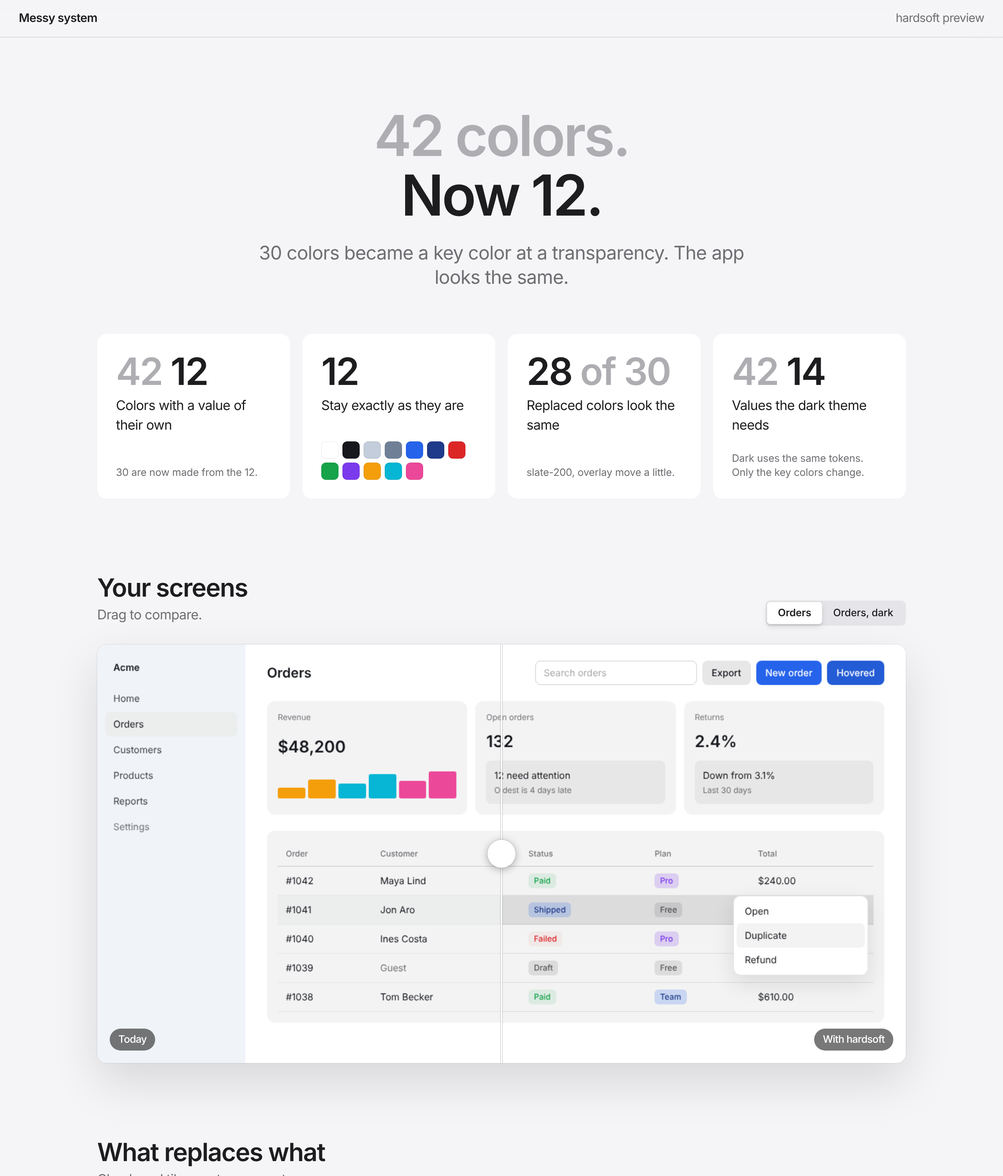
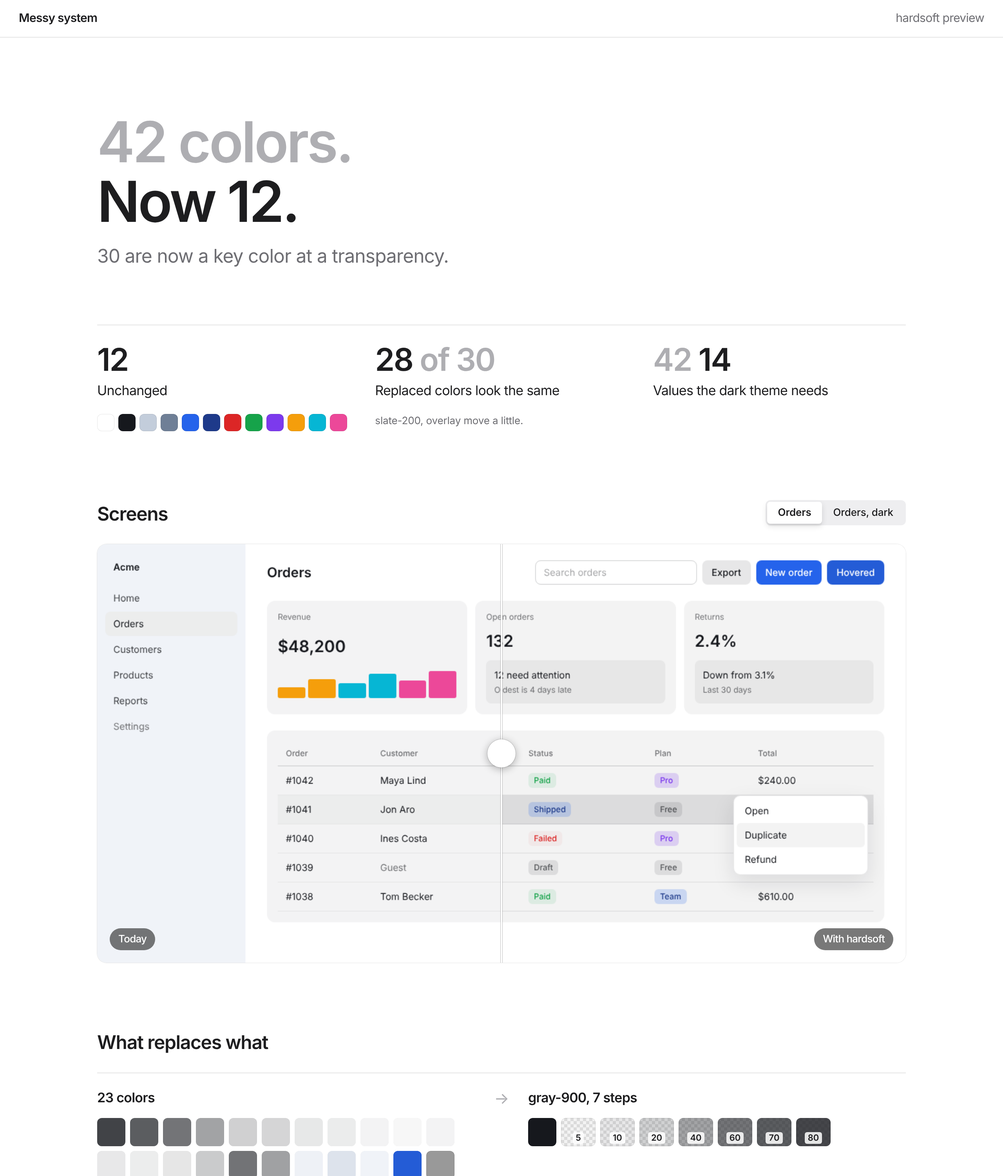
Simplify the preview page and publish it as an artifact when the agent is Claude (#4)
* Add report, apply and theme actions, 30 leveled rules, a color calculator, a fixed preview and a worked example

Claude-Session: https://claude.ai/code/session_01RAPQCzKdxfhhakqVBzd6VW

* Add token benchmarks and a closeness index, hairline strokes, solid grays for hard surfaces and screen checks with census

Claude-Session: https://claude.ai/code/session_01RAPQCzKdxfhhakqVBzd6VW

* Rewrite the README around the problem, the idea, the report numbers and what the skill never does

Claude-Session: https://claude.ai/code/session_01RAPQCzKdxfhhakqVBzd6VW

* Start the report with an interview and put the verdict, the numbers and the decisions first

Claude-Session: https://claude.ai/code/session_01RAPQCzKdxfhhakqVBzd6VW

* Offer round steps, draw each theme with its own steps, show kept colors, and put project rule clashes and side findings up front

Claude-Session: https://claude.ai/code/session_01RAPQCzKdxfhhakqVBzd6VW

* Rebuild the preview around every color of the system, today next to with hardsoft, with the real screens before and after

Claude-Session: https://claude.ai/code/session_01RAPQCzKdxfhhakqVBzd6VW

* Update the example numbers in the README

Claude-Session: https://claude.ai/code/session_01RAPQCzKdxfhhakqVBzd6VW

* Put a checkerboard at 20% under every transparent color in the preview

Claude-Session: https://claude.ai/code/session_01RAPQCzKdxfhhakqVBzd6VW

* Draw each color on a piece of its theme's ground, so a dark value reads as dark
[…]

diff --git a/examples/messy-system/preview.html b/examples/messy-system/preview.html
@@ -21,11 +21,11 @@ const system = /*hardsoft:data*/ {"name":"Messy system","scale":"given","fit":2,
 	* { box-sizing: border-box; margin: 0; }
 	:root {
 		color-scheme: light dark;
-		--bg: #f5f5f7; --card: #fff; --label: #1d1d1f; --second: #6e6e73; --third: #aeaeb2; --hair: rgb(0 0 0 / 0.1);
-		--fill: rgb(118 118 128 / 0.12); --seg: #fff; --bar: rgb(245 245 247 / 0.72); --warn: #b25000;
+		--bg: #fff; --card: transparent; --label: #1d1d1f; --second: #6e6e73; --third: #aeaeb2; --hair: rgb(0 0 0 / 0.1);
+		--fill: rgb(118 118 128 / 0.12); --seg: #fff; --bar: rgb(255 255 255 / 0.8); --warn: #b25000;
 	}
 	@media (prefers-color-scheme: dark) {
-		:root { --bg: #000; --card: #1c1c1e; --label: #f5f5f7; --second: #98989d; --third: #636366; --hair: rgb(255 255 255 / 0.14); --fill: rgb(118 118 128 / 0.24); --seg: #636366; --bar: rgb(0 0 0 / 0.72); --warn: #ff9f0a; }
+		:root { --bg: #000; --card: transparent; --label: #f5f5f7; --second: #98989d; --third: #636366; --hair: rgb(255 255 255 / 0.14); --fill: rgb(118 118 128 / 0.24); --seg: #636366; --bar: rgb(0 0 0 / 0.72); --warn: #ff9f0a; }
 	}
 	html { font: 17px/1.47 -apple-system, BlinkMacSystemFont, 'SF Pro Text', 'Helvetica Neue', system-ui, sans-serif; -webkit-font-smoothing: antialiased; letter-spacing: -0.022em; }
 	body { background: var(--bg); color: var(--label); }
@@ -38,21 +38,21 @@ const system = /*hardsoft:data*/ {"name":"Messy system","scale":"given","fit":2,
 	nav b { font-weight: 600; }
 	main { max-width: 1080px; margin: 0 auto; padding: 0 24px 120px; }
 
-	.hero { padding: 88px 0 56px; text-align: center; }
+	.hero { padding: 96px 0 72px; }
 	.hero h1 { font: 600 clamp(40px, 7vw, 72px)/1.05 -apple-system, BlinkMacSystemFont, 'SF Pro Display', 'Helvetica Neue', system-ui, sans-serif; letter-spacing: -0.035em; }
 	.hero h1 s { text-decoration: none; color: var(--third); }
-	.hero p { font-size: clamp(19px, 2.4vw, 24px); line-height: 1.3; color: var(--second); max-width: 620px; margin: 20px auto 0; letter-spacing: -0.02em; }
+	.hero p { font-size: clamp(19px, 2.4vw, 24px); line-height: 1.3; color: var(--second); max-width: 620px; margin: 16px 0 0; letter-spacing: -0.02em; }
 
-	.stats { display: grid; grid-template-columns: repeat(auto-fit, minmax(220px, 1fr)); gap: 16px; }
-	.stat { background: var(--card); border-radius: 12px; padding: 24px; display: grid; gap: 20px; align-content: space-between; min-height: 200px; }
-	.stat .big { font: 600 48px/1 -apple-system, BlinkMacSystemFont, 'SF Pro Display', system-ui, sans-serif; letter-spacing: -0.03em; margin-bottom: 8px; }
+	.stats { display: grid; grid-template-columns: repeat(auto-fit, minmax(220px, 1fr)); gap: 32px; padding-top: 24px; border-top: 0.5px solid var(--hair); }
+	.stat { display: grid; gap: 16px; align-content: start; }
+	.stat .big { font: 600 40px/1 -apple-system, BlinkMacSystemFont, 'SF Pro Display', system-ui, sans-serif; letter-spacing: -0.03em; margin-bottom: 8px; }
 	.stat .big s { text-decoration: none; color: var(--third); }
 	.dots { display: flex; flex-wrap: wrap; gap: 5px; }
 	.dot { width: 22px; height: 22px; border-radius: 6px; box-shadow: inset 0 0 0 0.5px var(--hair); }
 
-	section { margin-top: 96px; }
+	section { margin-top: 88px; }
 	.title { display: flex; flex-wrap: wrap; justify-content: space-between; align-items: end; gap: 16px; margin-bottom: 24px; }
-	h2 { font: 600 32px/1.12 -apple-system, BlinkMacSystemFont, 'SF Pro Display', system-ui, sans-serif; letter-spacing: -0.028em; }
+	h2 { font: 600 24px/1.2 -apple-system, BlinkMacSystemFont, 'SF Pro Display', system-ui, sans-serif; letter-spacing: -0.028em; }
 	.title p { color: var(--second); margin-top: 6px; }
 	h3 { font-size: 17px; font-weight: 600; }
 	.card { background: var(--card); border-radius: 12px; }
@@ -63,7 +63,7 @@ const system = /*hardsoft:data*/ {"name":"Messy system","scale":"given","fit":2,
 	.seg button[aria-pressed='true'] { background: var(--seg); box-shadow: 0 3px 8px rgb(0 0 0 / 0.12), 0 3px 1px rgb(0 0 0 / 0.04); font-weight: 600; }
 
 	/* The screen, before and after */
-	.compare { position: relative; border-radius: 12px; overflow: hidden; line-height: 0; user-select: none; box-shadow: 0 0 0 0.5px var(--hair), 0 24px 60px rgb(0 0 0 / 0.12); }
+	.compare { position: relative; border-radius: 12px; overflow: hidden; line-height: 0; user-select: none; box-shadow: 0 0 0 0.5px var(--hair); }
 	.compare img { display: block; width: 100%; }
 	.compare .old { position: absolute; inset: 0; overflow: hidden; width: var(--at, 50%); }
 	.compare .old img { width: auto; height: 100%; max-width: none; }
@@ -75,8 +75,7 @@ const system = /*hardsoft:data*/ {"name":"Messy system","scale":"given","fit":2,
 	.compare .tag.now { right: 16px; }
 
 	/* What replaces what */
-	.swap { display: grid; grid-template-columns: minmax(0, 1fr) 28px minmax(0, 1fr); gap: 20px; align-items: start; padding: 24px; }
-	.swap + .swap { border-top: 0.5px solid var(--hair); }
+	.swap { display: grid; grid-template-columns: minmax(0, 1fr) 28px minmax(0, 1fr); gap: 20px; align-items: start; padding: 20px 0; border-top: 0.5px solid var(--hair); }
 	.swap .arrow { color: var(--third); text-align: center; font-size: 20px; line-height: 24px; }
 	.chips { display: flex; flex-wrap: wrap; gap: 6px; margin-top: 12px; }
 	.chip { width: 36px; height: 36px; border-radius: 6px; box-shadow: inset 0 0 0 0.5px rgb(0 0 0 / 0.12); position: relative; overflow: hidden; }
@@ -87,18 +86,17 @@ const system = /*hardsoft:data*/ {"name":"Messy system","scale":"given","fit":2,
 	.checker { background-image: conic-gradient(rgb(128 128 128 / 0.2) 25%, transparent 0 50%, rgb(128 128 128 / 0.2) 0 75%, transparent 0); background-size: 8px 8px; }
 
 	/* Every color: grouped lists */
-	.group { margin-top: 32px; }
-	.group > header { display: flex; align-items: baseline; gap: 10px; padding: 0 24px 8px; }
+	.group { margin-top: 28px; }
+	.group > header { display: flex; align-items: baseline; gap: 10px; padding: 0 0 8px; border-bottom: 0.5px solid var(--hair); margin-bottom: 4px; }
 	.group > header span { color: var(--second); }
-	.cols { display: grid; grid-template-columns: 200px minmax(0, 1fr) minmax(0, 1fr) 240px; gap: 16px; padding: 0 24px 8px; color: var(--second); }
-	.row { display: grid; grid-template-columns: 200px minmax(0, 1fr) minmax(0, 1fr) 240px; gap: 16px; align-items: center; padding: 10px 24px; position: relative; }
+	.cols { display: grid; grid-template-columns: 200px minmax(0, 1fr) minmax(0, 1fr) 240px; gap: 16px; padding: 0 0 4px; color: var(--second); }
+	.row { display: grid; grid-template-columns: 200px minmax(0, 1fr) minmax(0, 1fr) 240px; gap: 16px; align-items: center; padding: 4px 0; }
 	.one .cols, .one .row { grid-template-columns: 200px minmax(0, 1fr) 240px; }
-	.row + .row::before { content: ''; position: absolute; top: 0; left: 24px; right: 0; border-top: 0.5px solid var(--hair); }
-	.name { overflow-wrap: anywhere; font-weight: 500; }
+	.name { overflow-wrap: anywhere; display: flex; gap: 8px; align-items: baseline; flex-wrap: wrap; }
 	.name div + div { font-weight: 400; font-family: ui-monospace, 'SF Mono', Menlo, monospace; font-size: 12px; letter-spacing: 0; }
 	/* A bar is a piece of the theme's ground with the color on it, so dark reads as dark */
-	.bar { padding: 6px; border-radius: 8px; box-shadow: inset 0 0 0 0.5px var(--hair); }
-	.tile { display: grid; grid-template-columns: 1fr 1fr; height: 32px; border-radius: 4px; overflow: hidden; }
+	.bar { padding: 4px; border-radius: 6px; box-shadow: inset 0 0 0 0.5px var(--hair); }
+	.tile { display: grid; grid-template-columns: 1fr 1fr; height: 24px; border-radius: 3px; overflow: hidden; }
 	.tile > div { position: relative; }
 	.now { display: flex; align-items: center; gap: 8px; min-width: 0; }
 	.mark { flex: none; width: 18px; height: 18px; border-radius: 3px; position: relative; overflow: hidden; box-shadow: inset 0 0 0 0.5px rgb(0 0 0 / 0.15); }
@@ -137,7 +135,7 @@ const themes = ['light', ...(system.dark ? ['dark'] : [])];
 const soft = tokens.filter((t) => t.kind === 'soft');
 const solid = tokens.filter((t) => t.kind !== 'soft');
 const moved = soft.filter((t) => t.shift > system.fit);
-const WORDS = { master: 'Key color, unchanged', kept: 'Unchanged', hard: 'Unchanged, solid on a hard surface', untouched: 'Unchanged' };
+const WORDS = { master: 'Key color', kept: 'Unchanged', hard: 'Unchanged', untouched: 'Unchanged' };
 
 // A segmented control: pick one of a few.
 function segmented(options, onPick) {
@@ -178,19 +176,18 @@ const page = document.getElementById('page');
 // 1. The claim, then the proofs: fewer values, the key colors stay, it looks the same.
 page.append(el('header', { className: 'hero' }, [
 	el('h1', { className: 'num' }, [el('s', { textContent: `${tokens.length} colors.` }), el('br'), `Now ${solid.length}.`]),
-	el('p', { textContent: `${plural(soft.length, 'color')} became a key color at a transparency. The app looks the same.` }),
+	el('p', { textContent: `${soft.length} are now a key color at a transparency.` }),
 ]));
 const stat = (big, label, extra) => el('div', { className: 'stat' }, [el('div', {}, [el('div', { className: 'big num' }, big), el('div', { textContent: label })]), extra]);
 const dots = (list) => el('div', { className: 'dots' }, list.map((t) => { const d = el('div', { className: 'dot', title: t.name }); d.style.background = t.value; return d; }));
 const stats = el('div', { className: 'stats' }, [
-	stat([el('s', { textContent: `${tokens.length} ` }), `${solid.length}`], 'Colors with a value of their own', el('div', { className: 'second foot', textContent: `${soft.length} are now made from the ${solid.length}.` })),
-	stat([`${solid.length}`], 'Stay exactly as they are', dots(solid)),
-	stat([`${soft.length - moved.length}`, el('s', { textContent: ` of ${soft.length}` })], 'Replaced colors look the same', el('div', { className: 'second foot', textContent: moved.length ? `${moved.map((t) => t.name).join(', ')} ${moved.length === 1 ? 'moves' : 'move'} a little.` : 'None of them moves.' })),
+	stat([`${solid.length}`], 'Unchanged', dots(solid)),
+	stat([`${soft.length - moved.length}`, el('s', { textContent: ` of ${soft.length}` })], 'Replaced colors look the same', moved.length ? el('div', { className: 'second foot', textContent: `${moved.map((t) => t.name).join(', ')} ${moved.length === 1 ? 'moves' : 'move'} a little.` }) : null),
 ]);
 if (system.dark) {
 	const had = tokens.filter((t) => t.dark);
 	const need = had.filter((t) => t.kind !== 'soft' || t.dark.shift > system.fit + 1);
-	stats.append(stat([el('s', { textContent: `${had.length} ` }), `${need.length}`], 'Values the dark theme needs', el('div', { className: 'second foot', textContent: 'Dark uses the same tokens. Only the key colors change.' })));
+	stats.append(stat([el('s', { textContent: `${had.length} ` }), `${need.length}`], 'Values the dark theme needs', null));
 }
 page.append(stats);
 
@@ -205,7 +202,7 @@ if (system.screens.length) {
 	};
 	show(system.screens[0]);
 	page.append(el('section', {}, [
-		el('div', { className: 'title' }, [el('div', {}, [el('h2', { textContent: 'Your screens' }), el('p', { textContent: 'Drag to compare.' })]), system.screens.length > 1 ? segmented(system.screens.map((s) => [s, s.name]), show) : null]),
+		el('div', { className: 'title' }, [el('h2', { textContent: 'Screens' }), system.screens.length > 1 ? segmented(system.screens.map((s) => [s, s.name]), show) : null]),
 		view,
 	]));
 }
@@ -225,16 +222,16 @@ if (used.length) {
 		card.append(el('div', { className: 'swap' }, [
 			el('div', {}, [el('h3', { textContent: plural(mine.length, 'color') }), olds]),
 			el('div', { className: 'arrow', textContent: '→' }),
-			el('div', {}, [el('h3', { textContent: `${name} at ${plural(steps.length, 'step')}` }), news]),
+			el('div', {}, [el('h3', { textContent: `${name}, ${plural(steps.length, 'step')}` }), news]),
 		]));
 	}
-	page.append(el('section', {}, [el('div', { className: 'title' }, [el('div', {}, [el('h2', { textContent: 'What replaces what' }), el('p', { textContent: 'Checkered tiles are transparent.' })])]), card]));
+	page.append(el('section', {}, [el('div', { className: 'title' }, [el('h2', { textContent: 'What replaces what' })]), card]));
 }
 
 // 4. Every color of the system, grouped the way the system groups them.
 const groups = [...new Set(tokens.map((t) => t.group))];
 const list = el('div', { className: themes.length === 1 ? 'one' : '' });
-list.append(el('div', { className: 'cols foot' }, [el('span'), ...themes.map((th) => el('span', { textContent: themes.length > 1 ? `On the ${th} ground: today, with hardsoft` : 'Today, with hardsoft' })), el('span')]));
+list.append(el('div', { className: 'cols foot' }, [el('span'), ...themes.map((th) => el('span', { textContent: themes.length > 1 ? `${th[0].toUpperCase()}${th.slice(1)}: today | new` : 'Today | new' })), el('span')]));
 for (const g of groups) {
 	const mine = tokens.filter((t) => t.group === g);
 	const left = mine.filter((t) => t.kind !== 'soft').length;
@@ -242,19 +239,19 @@ for (const g of groups) {
 		const now = el('div', { className: 'now foot' });
 		if (t.kind === 'soft') {
 			const far = t.shift > system.fit || (t.dark?.shift ?? 0) > system.fit;
-			now.append(paint(el('span', { className: 'mark checker' }), '#fff', layer(t.masterValue, t.step)), el('span', {}, [`${t.master} at ${t.step}%`, far ? el('span', { className: 'moved', textContent: ' · moves a little' }) : null]));
-		} else now.append(el('span', { className: 'second', textContent: t.why ? `${WORDS[t.kind]}: ${t.why}` : WORDS[t.kind] }));
+			now.append(el('span', {}, [`${t.master} ${t.step}%`, far ? el('span', { className: 'moved', textContent: ' · moves a little' }) : null]));
+		} else now.append(el('span', { className: 'second', textContent: WORDS[t.kind] }));
 		const row = el('div', { className: 'row' }, [el('div', { className: 'name foot' }, [el('div', { textContent: t.name }), el('div', { className: 'second', textContent: t.value })]), ...themes.map((th) => bar(t, th)), now]);
 		row.dataset.kind = t.kind === 'soft' ? 'soft' : 'solid';
 		return row;
 	}));
 	list.append(el('div', { className: 'group' }, [el('header', {}, [el('h3', { textContent: g }), el('span', { className: 'foot num', textContent: left === mine.length ? `${mine.length}, unchanged` : `${mine.length} → ${left}` })]), rows]));
 }
-const filters = segmented([['all', `All ${tokens.length}`], ['soft', `Now transparent ${soft.length}`], ['solid', `Unchanged ${solid.length}`]], (kind) => {
+const filters = segmented([['all', `All ${tokens.length}`], ['soft', `Transparent ${soft.length}`], ['solid', `Unchanged ${solid.length}`]], (kind) => {
 	list.querySelectorAll('.row').forEach((r) => (r.hidden = kind !== 'all' && r.dataset.kind !== kind));
 	list.querySelectorAll('.group').forEach((gr) => (gr.hidden = !gr.querySelector('.row:not([hidden])')));
 });
-page.append(el('section', {}, [el('div', { className: 'title' }, [el('div', {}, [el('h2', { textContent: 'Every color' }), el('p', { textContent: 'Left half today, right half with hardsoft.' })]), filters]), list]));
+page.append(el('section', {}, [el('div', { className: 'title' }, [el('h2', { textContent: 'Every color' }), filters]), list]));
 
 document.title = `${system.name}: hardsoft preview`;
 </script>

diff --git a/skills/hardsoft/templates/preview.html b/skills/hardsoft/templates/preview.html
@@ -21,11 +21,11 @@ const system = /*hardsoft:data*/ {"name":"Example","scale":"fewer","fit":2,"step
 	* { box-sizing: border-box; margin: 0; }
 	:root {
 		color-scheme: light dark;
-		--bg: #f5f5f7; --card: #fff; --label: #1d1d1f; --second: #6e6e73; --third: #aeaeb2; --hair: rgb(0 0 0 / 0.1);
-		--fill: rgb(118 118 128 / 0.12); --seg: #fff; --bar: rgb(245 245 247 / 0.72); --warn: #b25000;
+		--bg: #fff; --card: transparent; --label: #1d1d1f; --second: #6e6e73; --third: #aeaeb2; --hair: rgb(0 0 0 / 0.1);
+		--fill: rgb(118 118 128 / 0.12); --seg: #fff; --bar: rgb(255 255 255 / 0.8); --warn: #b25000;
 	}
 	@media (prefers-color-scheme: dark) {
-		:root { --bg: #000; --card: #1c1c1e; --label: #f5f5f7; --second: #98989d; --third: #636366; --hair: rgb(255 255 255 / 0.14); --fill: rgb(118 118 128 / 0.24); --seg: #636366; --bar: rgb(0 0 0 / 0.72); --warn: #ff9f0a; }
+		:root { --bg: #000; --card: transparent; --label: #f5f5f7; --second: #98989d; --third: #636366; --hair: rgb(255 255 255 / 0.14); --fill: rgb(118 118 128 / 0.24); --seg: #636366; --bar: rgb(0 0 0 / 0.72); --warn: #ff9f0a; }
 	}
 	html { font: 17px/1.47 -apple-system, BlinkMacSystemFont, 'SF Pro Text', 'Helvetica Neue', system-ui, sans-serif; -webkit-font-smoothing: antialiased; letter-spacing: -0.022em; }
 	body { background: var(--bg); color: var(--label); }
@@ -38,21 +38,21 @@ const system = /*hardsoft:data*/ {"name":"Example","scale":"fewer","fit":2,"step
 	nav b { font-weight: 600; }
 	main { max-width: 1080px; margin: 0 auto; padding: 0 24px 120px; }
 
-	.hero { padding: 88px 0 56px; text-align: center; }
+	.hero { padding: 96px 0 72px; }
 	.hero h1 { font: 600 clamp(40px, 7vw, 72px)/1.05 -apple-system, BlinkMacSystemFont, 'SF Pro Display', 'Helvetica Neue', system-ui, sans-serif; letter-spacing: -0.035em; }
 	.hero h1 s { text-decoration: none; color: var(--third); }
-	.hero p { font-size: clamp(19px, 2.4vw, 24px); line-height: 1.3; color: var(--second); max-width: 620px; margin: 20px auto 0; letter-spacing: -0.02em; }
+	.hero p { font-size: clamp(19px, 2.4vw, 24px); line-height: 1.3; color: var(--second); max-width: 620px; margin: 16px 0 0; letter-spacing: -0.02em; }
 
-	.stats { display: grid; grid-template-columns: repeat(auto-fit, minmax(220px, 1fr)); gap: 16px; }
-	.stat { background: var(--card); border-radius: 12px; padding: 24px; display: grid; gap: 20px; align-content: space-between; min-height: 200px; }
-	.stat .big { font: 600 48px/1 -apple-system, BlinkMacSystemFont, 'SF Pro Display', system-ui, sans-serif; letter-spacing: -0.03em; margin-bottom: 8px; }
+	.stats { display: grid; grid-template-columns: repeat(auto-fit, minmax(220px, 1fr)); gap: 32px; padding-top: 24px; border-top: 0.5px solid var(--hair); }
+	.stat { display: grid; gap: 16px; align-content: start; }
+	.stat .big { font: 600 40px/1 -apple-system, BlinkMacSystemFont, 'SF Pro Display', system-ui, sans-serif; letter-spacing: -0.03em; margin-bottom: 8px; }
 	.stat .big s { text-decoration: none; color: var(--third); }
 	.dots { display: flex; flex-wrap: wrap; gap: 5px; }
 	.dot { width: 22px; height: 22px; border-radius: 6px; box-shadow: inset 0 0 0 0.5px var(--hair); }
 
-	section { margin-top: 96px; }
+	section { margin-top: 88px; }
 	.title { display: flex; flex-wrap: wrap; justify-content: space-between; align-items: end; gap: 16px; margin-bottom: 24px; }
-	h2 { font: 600 32px/1.12 -apple-system, BlinkMacSystemFont, 'SF Pro Display', system-ui, sans-serif; letter-spacing: -0.028em; }
+	h2 { font: 600 24px/1.2 -apple-system, BlinkMacSystemFont, 'SF Pro Display', system-ui, sans-serif; letter-spacing: -0.028em; }
 	.title p { color: var(--second); margin-top: 6px; }
 	h3 { font-size: 17px; font-weight: 600; }
 	.card { background: var(--card); border-radius: 12px; }
@@ -63,7 +63,7 @@ const system = /*hardsoft:data*/ {"name":"Example","scale":"fewer","fit":2,"step
 	.seg button[aria-pressed='true'] { background: var(--seg); box-shadow: 0 3px 8px rgb(0 0 0 / 0.12), 0 3px 1px rgb(0 0 0 / 0.04); font-weight: 600; }
 
 	/* The screen, before and after */
-	.compare { position: relative; border-radius: 12px; overflow: hidden; line-height: 0; user-select: none; box-shadow: 0 0 0 0.5px var(--hair), 0 24px 60px rgb(0 0 0 / 0.12); }
+	.compare { position: relative; border-radius: 12px; overflow: hidden; line-height: 0; user-select: none; box-shadow: 0 0 0 0.5px var(--hair); }
 	.compare img { display: block; width: 100%; }
 	.compare .old { position: absolute; inset: 0; overflow: hidden; width: var(--at, 50%); }
 	.compare .old img { width: auto; height: 100%; max-width: none; }
@@ -75,8 +75,7 @@ const system = /*hardsoft:data*/ {"name":"Example","scale":"fewer","fit":2,"step
 	.compare .tag.now { right: 16px; }
 
 	/* What replaces what */
-	.swap { display: grid; grid-template-columns: minmax(0, 1fr) 28px minmax(0, 1fr); gap: 20px; align-items: start; padding: 24px; }
-	.swap + .swap { border-top: 0.5px solid var(--hair); }
+	.swap { display: grid; grid-template-columns: minmax(0, 1fr) 28px minmax(0, 1fr); gap: 20px; align-items: start; padding: 20px 0; border-top: 0.5px solid var(--hair); }
 	.swap .arrow { color: var(--third); text-align: center; font-size: 20px; line-height: 24px; }
 	.chips { display: flex; flex-wrap: wrap; gap: 6px; margin-top: 12px; }
 	.chip { width: 36px; height: 36px; border-radius: 6px; box-shadow: inset 0 0 0 0.5px rgb(0 0 0 / 0.12); position: relative; overflow: hidden; }
@@ -87,18 +86,17 @@ const system = /*hardsoft:data*/ {"name":"Example","scale":"fewer","fit":2,"step
 	.checker { background-image: conic-gradient(rgb(128 128 128 / 0.2) 25%, transparent 0 50%, rgb(128 128 128 / 0.2) 0 75%, transparent 0); background-size: 8px 8px; }
 
 	/* Every color: grouped lists */
-	.group { margin-top: 32px; }
-	.group > header { display: flex; align-items: baseline; gap: 10px; padding: 0 24px 8px; }
+	.group { margin-top: 28px; }
+	.group > header { display: flex; align-items: baseline; gap: 10px; padding: 0 0 8px; border-bottom: 0.5px solid var(--hair); margin-bottom: 4px; }
 	.group > header span { color: var(--second); }
-	.cols { display: grid; grid-template-columns: 200px minmax(0, 1fr) minmax(0, 1fr) 240px; gap: 16px; padding: 0 24px 8px; color: var(--second); }
-	.row { display: grid; grid-template-columns: 200px minmax(0, 1fr) minmax(0, 1fr) 240px; gap: 16px; align-items: center; padding: 10px 24px; position: relative; }
+	.cols { display: grid; grid-template-columns: 200px minmax(0, 1fr) minmax(0, 1fr) 240px; gap: 16px; padding: 0 0 4px; color: var(--second); }
+	.row { display: grid; grid-template-columns: 200px minmax(0, 1fr) minmax(0, 1fr) 240px; gap: 16px; align-items: center; padding: 4px 0; }
 	.one .cols, .one .row { grid-template-columns: 200px minmax(0, 1fr) 240px; }
-	.row + .row::before { content: ''; position: absolute; top: 0; left: 24px; right: 0; border-top: 0.5px solid var(--hair); }
-	.name { overflow-wrap: anywhere; font-weight: 500; }
+	.name { overflow-wrap: anywhere; display: flex; gap: 8px; align-items: baseline; flex-wrap: wrap; }
 	.name div + div { font-weight: 400; font-family: ui-monospace, 'SF Mono', Menlo, monospace; font-size: 12px; letter-spacing: 0; }
 	/* A bar is a piece of the theme's ground with the color on it, so dark reads as dark */
-	.bar { padding: 6px; border-radius: 8px; box-shadow: inset 0 0 0 0.5px var(--hair); }
-	.tile { display: grid; grid-template-columns: 1fr 1fr; height: 32px; border-radius: 4px; overflow: hidden; }
+	.bar { padding: 4px; border-radius: 6px; box-shadow: inset 0 0 0 0.5px var(--hair); }
+	.tile { display: grid; grid-template-columns: 1fr 1fr; height: 24px; border-radius: 3px; overflow: hidden; }
 	.tile > div { position: relative; }
 	.now { display: flex; align-items: center; gap: 8px; min-width: 0; }
 	.mark { flex: none; width: 18px; height: 18px; border-radius: 3px; position: relative; overflow: hidden; box-shadow: inset 0 0 0 0.5px rgb(0 0 0 / 0.15); }
@@ -137,7 +135,7 @@ const themes = ['light', ...(system.dark ? ['dark'] : [])];
 const soft = tokens.filter((t) => t.kind === 'soft');
 const solid = tokens.filter((t) => t.kind !== 'soft');
 const moved = soft.filter((t) => t.shift > system.fit);
-const WORDS = { master: 'Key color, unchanged', kept: 'Unchanged', hard: 'Unchanged, solid on a hard surface', untouched: 'Unchanged' };
+const WORDS = { master: 'Key color', kept: 'Unchanged', hard: 'Unchanged', untouched: 'Unchanged' };
 
 // A segmented control: pick one of a few.
 function segmented(options, onPick) {
@@ -178,19 +176,18 @@ const page = document.getElementById('page');
 // 1. The claim, then the proofs: fewer values, the key colors stay, it looks the same.
 page.append(el('header', { className: 'hero' }, [
 	el('h1', { className: 'num' }, [el('s', { textContent: `${tokens.length} colors.` }), el('br'), `Now ${solid.length}.`]),
-	el('p', { textContent: `${plural(soft.length, 'color')} became a key color at a transparency. The app looks the same.` }),
+	el('p', { textContent: `${soft.length} are now a key color at a transparency.` }),
 ]));
 const stat = (big, label, extra) => el('div', { className: 'stat' }, [el('div', {}, [el('div', { className: 'big num' }, big), el('div', { textContent: label })]), extra]);
 const dots = (list) => el('div', { className: 'dots' }, list.map((t) => { const d = el('div', { className: 'dot', title: t.name }); d.style.background = t.value; return d; }));
 const stats = el('div', { className: 'stats' }, [
-	stat([el('s', { textContent: `${tokens.length} ` }), `${solid.length}`], 'Colors with a value of their own', el('div', { className: 'second foot', textContent: `${soft.length} are now made from the ${solid.length}.` })),
-	stat([`${solid.length}`], 'Stay exactly as they are', dots(solid)),
-	stat([`${soft.length - moved.length}`, el('s', { textContent: ` of ${soft.length}` })], 'Replaced colors look the same', el('div', { className: 'second foot', textContent: moved.length ? `${moved.map((t) => t.name).join(', ')} ${moved.length === 1 ? 'moves' : 'move'} a little.` : 'None of them moves.' })),
+	stat([`${solid.length}`], 'Unchanged', dots(solid)),
+	stat([`${soft.length - moved.length}`, el('s', { textContent: ` of ${soft.length}` })], 'Replaced colors look the same', moved.length ? el('div', { className: 'second foot', textContent: `${moved.map((t) => t.name).join(', ')} ${moved.length === 1 ? 'moves' : 'move'} a little.` }) : null),
 ]);
 if (system.dark) {
 	const had = tokens.filter((t) => t.dark);
 	const need = had.filter((t) => t.kind !== 'soft' || t.dark.shift > system.fit + 1);
-	stats.append(stat([el('s', { textContent: `${had.length} ` }), `${need.length}`], 'Values the dark theme needs', el('div', { className: 'second foot', textContent: 'Dark uses the same tokens. Only the key colors change.' })));
+	stats.append(stat([el('s', { textContent: `${had.length} ` }), `${need.length}`], 'Values the dark theme needs', null));
 }
 page.append(stats);
 
@@ -205,7 +202,7 @@ if (system.screens.length) {
 	};
 	show(system.screens[0]);
 	page.append(el('section', {}, [
-		el('div', { className: 'title' }, [el('div', {}, [el('h2', { textContent: 'Your screens' }), el('p', { textContent: 'Drag to compare.' })]), system.screens.length > 1 ? segmented(system.screens.map((s) => [s, s.name]), show) : null]),
+		el('div', { className: 'title' }, [el('h2', { textContent: 'Screens' }), system.screens.length > 1 ? segmented(system.screens.map((s) => [s, s.name]), show) : null]),
 		view,
 	]));
 }
@@ -225,16 +222,16 @@ if (used.length) {
 		card.append(el('div', { className: 'swap' }, [
 			el('div', {}, [el('h3', { textContent: plural(mine.length, 'color') }), olds]),
 			el('div', { className: 'arrow', textContent: '→' }),
-			el('div', {}, [el('h3', { textContent: `${name} at ${plural(steps.length, 'step')}` }), news]),
+			el('div', {}, [el('h3', { textContent: `${name}, ${plural(steps.length, 'step')}` }), news]),
 		]));
 	}
-	page.append(el('section', {}, [el('div', { className: 'title' }, [el('div', {}, [el('h2', { textContent: 'What replaces what' }), el('p', { textContent: 'Checkered tiles are transparent.' })])]), card]));
+	page.append(el('section', {}, [el('div', { className: 'title' }, [el('h2', { textContent: 'What replaces what' })]), card]));
 }
 
 // 4. Every color of the system, grouped the way the system groups them.
 const groups = [...new Set(tokens.map((t) => t.group))];
 const list = el('div', { className: themes.length === 1 ? 'one' : '' });
-list.append(el('div', { className: 'cols foot' }, [el('span'), ...themes.map((th) => el('span', { textContent: themes.length > 1 ? `On the ${th} ground: today, with hardsoft` : 'Today, with hardsoft' })), el('span')]));
+list.append(el('div', { className: 'cols foot' }, [el('span'), ...themes.map((th) => el('span', { textContent: themes.length > 1 ? `${th[0].toUpperCase()}${th.slice(1)}: today | new` : 'Today | new' })), el('span')]));
 for (const g of groups) {
 	const mine = tokens.filter((t) => t.group === g);
 	const left = mine.filter((t) => t.kind !== 'soft').length;
@@ -242,19 +239,19 @@ for (const g of groups) {
 		const now = el('div', { className: 'now foot' });
 		if (t.kind === 'soft') {
 			const far = t.shift > system.fit || (t.dark?.shift ?? 0) > system.fit;
-			now.append(paint(el('span', { className: 'mark checker' }), '#fff', layer(t.masterValue, t.step)), el('span', {}, [`${t.master} at ${t.step}%`, far ? el('span', { className: 'moved', textContent: ' · moves a little' }) : null]));
-		} else now.append(el('span', { className: 'second', textContent: t.why ? `${WORDS[t.kind]}: ${t.why}` : WORDS[t.kind] }));
+			now.append(el('span', {}, [`${t.master} ${t.step}%`, far ? el('span', { className: 'moved', textContent: ' · moves a little' }) : null]));
+		} else now.append(el('span', { className: 'second', textContent: WORDS[t.kind] }));
 		const row = el('div', { className: 'row' }, [el('div', { className: 'name foot' }, [el('div', { textContent: t.name }), el('div', { className: 'second', textContent: t.value })]), ...themes.map((th) => bar(t, th)), now]);
 		row.dataset.kind = t.kind === 'soft' ? 'soft' : 'solid';
 		return row;
 	}));
 	list.append(el('div', { className: 'group' }, [el('header', {}, [el('h3', { textContent: g }), el('span', { className: 'foot num', textContent: left === mine.length ? `${mine.length}, unchanged` : `${mine.length} → ${left}` })]), rows]));
 }
-const filters = segmented([['all', `All ${tokens.length}`], ['soft', `Now transparent ${soft.length}`], ['solid', `Unchanged ${solid.length}`]], (kind) => {
+const filters = segmented([['all', `All ${tokens.length}`], ['soft', `Transparent ${soft.length}`], ['solid', `Unchanged ${solid.length}`]], (kind) => {
 	list.querySelectorAll('.row').forEach((r) => (r.hidden = kind !== 'all' && r.dataset.kind !== kind));
 	list.querySelectorAll('.group').forEach((gr) => (gr.hidden = !gr.querySelector('.row:not([hidden])')));
 });
-page.append(el('section', {}, [el('div', { className: 'title' }, [el('div', {}, [el('h2', { textContent: 'Every color' }), el('p', { textContent: 'Left half today, right half with hardsoft.' })]), filters]), list]));
+page.append(el('section', {}, [el('div', { className: 'title' }, [el('h2', { textContent: 'Every color' }), filters]), list]));
 
 document.title = `${system.name}: hardsoft preview`;
 </script>

diff --git a/skills/hardsoft/SKILL.md b/skills/hardsoft/SKILL.md
@@ -208,7 +208,9 @@ The page proves one thing: the same app, with fewer values. It shows, in this or
 
 If the app cannot be opened even after question 2a, build the picked screen's main parts from its real component code and real token names in one static HTML file, draw it with both stylesheets, and say in the report's first line that the screens are rebuilt, not captured. Never ship a preview with no screen in it.
 
-The preview goes where the project already shows its system, like a `/system` page or Storybook, if its rules allow it. Otherwise it is a single HTML file next to the report. In a chat it is an artifact, or the HTML file.
+The preview goes where the project already shows its system, like a `/system` page or Storybook, if its rules allow it. Otherwise it is a single HTML file next to the report.
+
+**In Claude, publish the preview as an artifact.** When you are Claude and have a way to publish one (the Artifact tool in Claude Code, an artifact in a Claude chat), publish the generated `hardsoft-preview.html` as an artifact and give the user its link, in addition to the file. The page is one self-contained file with the screenshots inside, so it publishes as it is. Name it "<project> hardsoft preview". An artifact starts private, and sharing it is the user's choice. In any other agent, or when no artifact tool is there, give the HTML file.
 
 **The report action ends here.** Say in two or three lines what the system would win, link the report and the preview, and offer apply.
 

diff --git a/CHANGELOG.md b/CHANGELOG.md
@@ -12,6 +12,8 @@ From the first run on a real product.
 - A third scale, round steps: the fewer steps moved to the nearest 5.
 - The report has one row per family with its count before and after, a clash with the project's own rules goes into the decisions, and side findings get a section of their own.
 - The interview asks how to see the screens running when the agent cannot open them.
+- In Claude the preview is also published as an artifact, with a link.
+- A simpler preview page: white, no cards, three numbers, one thin row per color.
 
 ## 2.1.0
 
